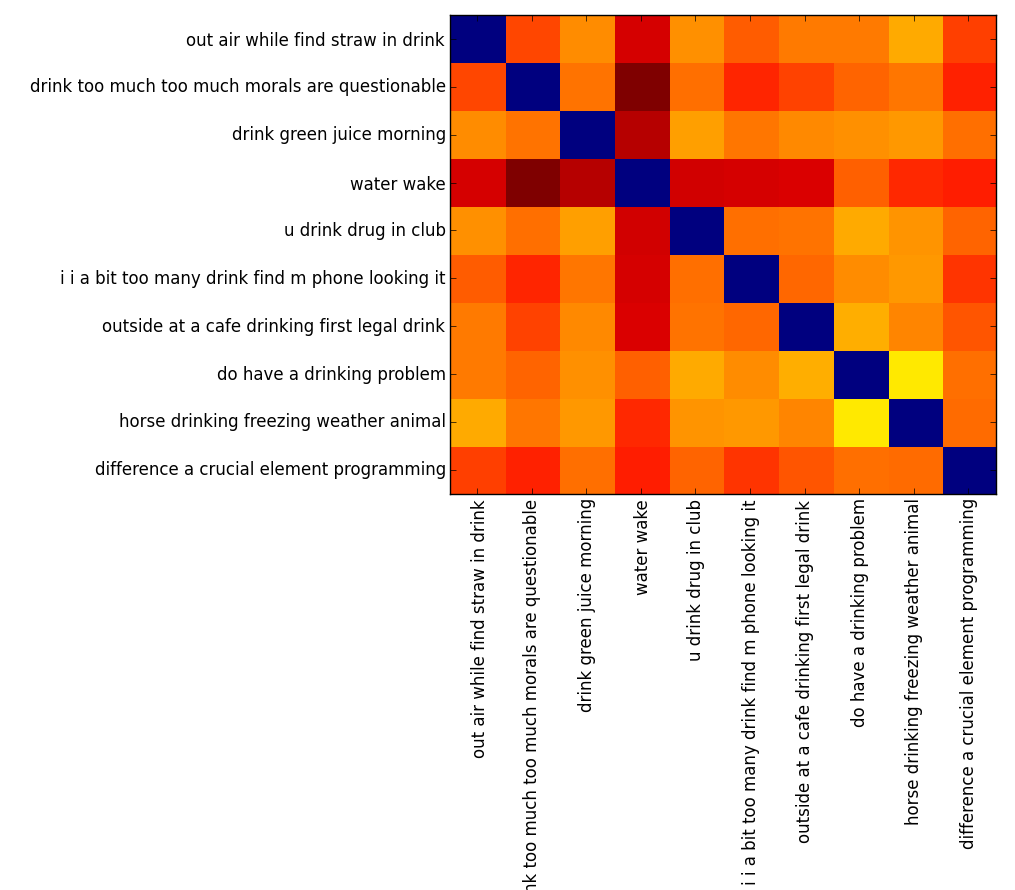
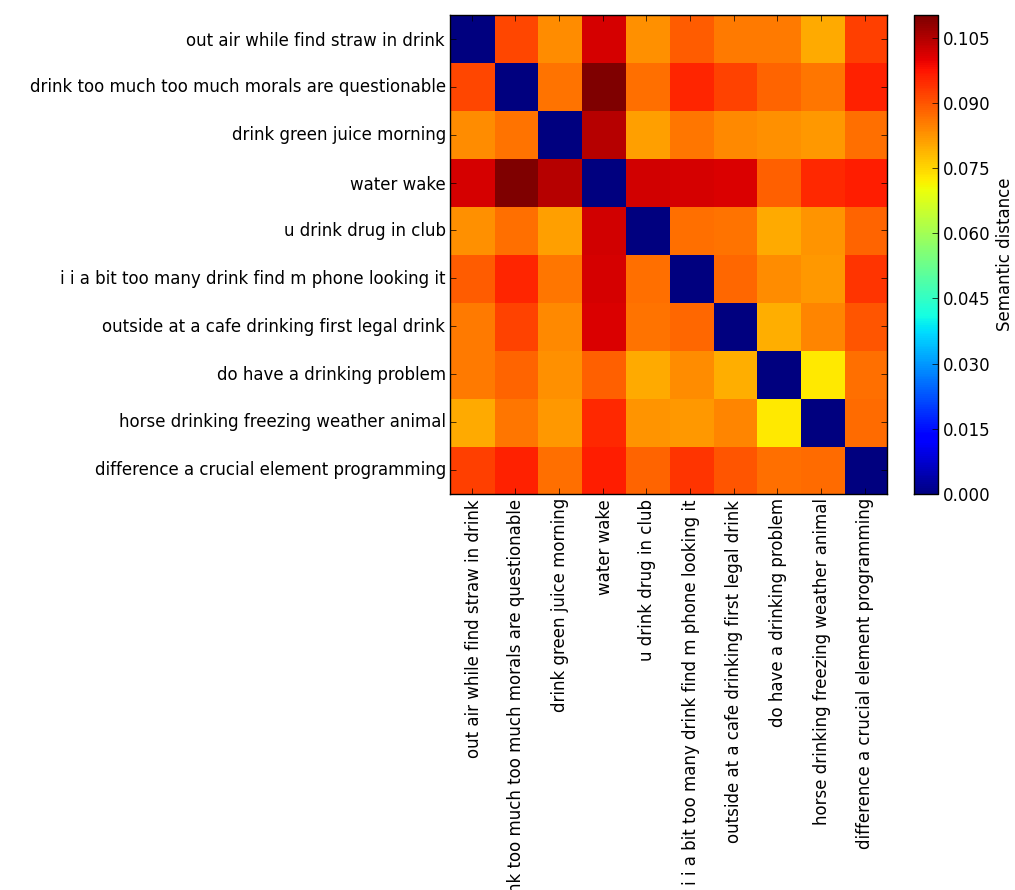
update test1.py

Changed region(s): [[0.4581, 0.0, 1.0, 1.0]]

diff --git a/test1.py b/test1.py
@@ -71,10 +71,12 @@ fig = plt.figure(figsize=(10,10))
 plt.xticks(range(len(lemmaStrings)+1))
 plt.yticks(range(len(lemmaStrings)+1))
 ax = fig.add_subplot(111)
-ax.imshow(distances,interpolation='nearest',aspect='auto')
+cax = ax.imshow(distances,interpolation='nearest',aspect='auto')
 ax.set_xticklabels(lemmaStrings, rotation = 'vertical')
 ax.set_yticklabels(lemmaStrings)
 plt.tight_layout()
+cbar = plt.colorbar(cax)
+cbar.set_label('Semantic distance')
 plt.show()
 
 ##x = SemanticVisualization(trigger='test1', data = distances)
